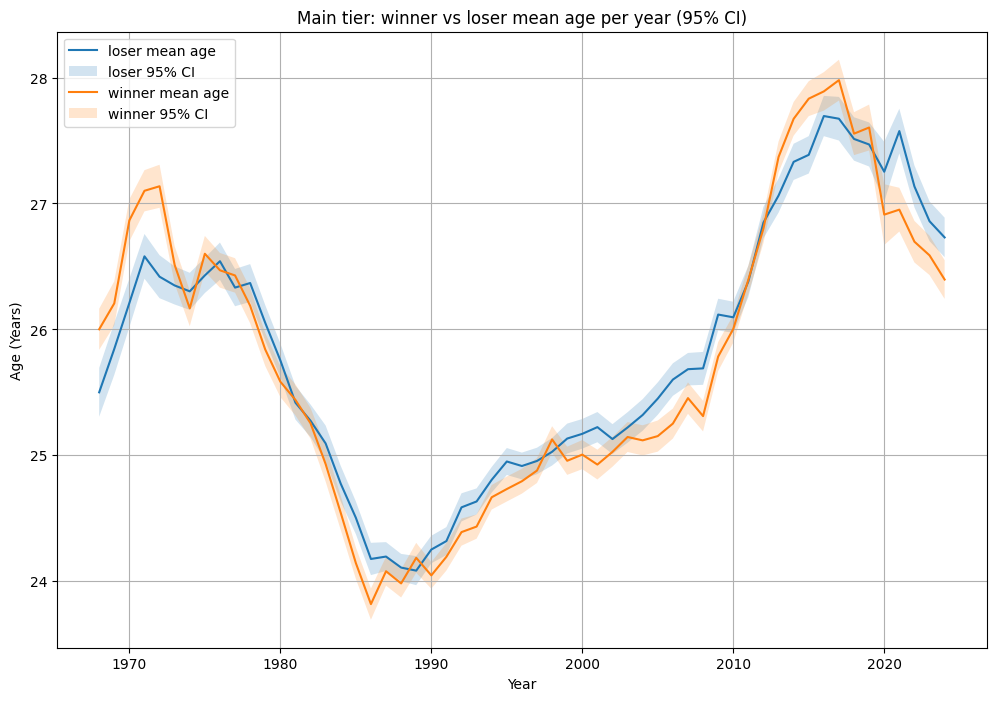
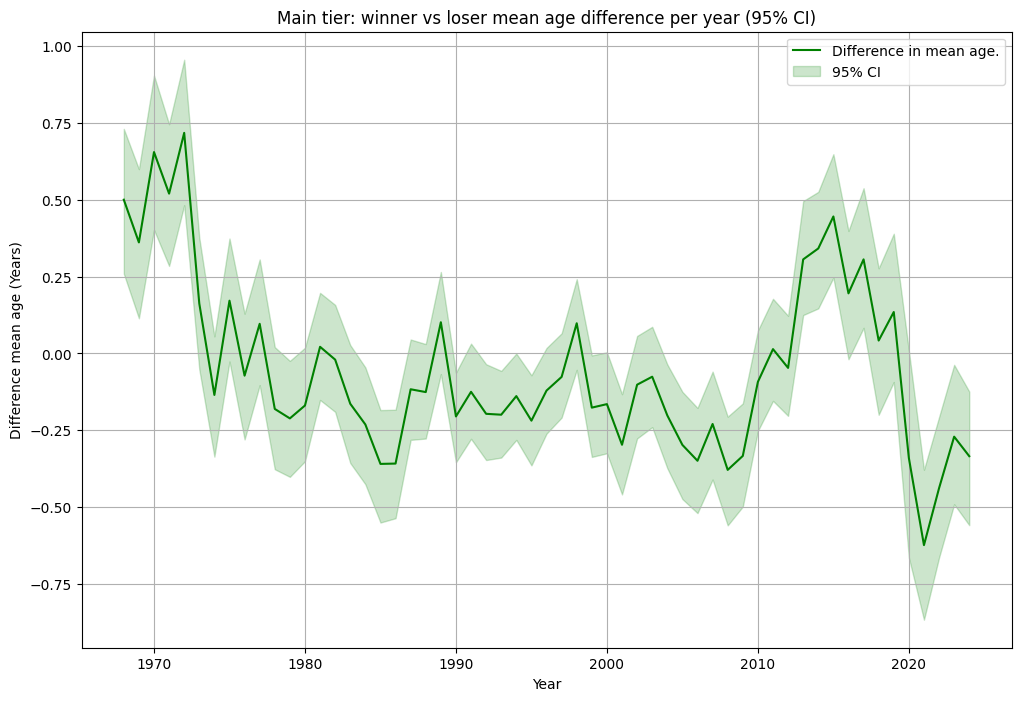
age_analyse_winner_loser.py Now uses bootstrapping as well.

diff --git a/code/age_analysis/age_analyse_winner_loser.py b/code/age_analysis/age_analyse_winner_loser.py
@@ -1,6 +1,5 @@
 import numpy as np
 import pandas as pd
-from scipy import stats
 from pathlib import Path
 import matplotlib.pyplot as plt
 
@@ -26,67 +25,75 @@ def main():
     # keep only main tier
     main = df[df["tier"] == "main"].copy()
 
-    # Compute mean and CI for winners. Duplicates are fine now, ages that win
-    # but then lose are canceled out that way.
-    groups = main.groupby(["year"])["winner_age"]
-    # Creates an out dataframe with number of ages(not unique) per group, their
-    # mean and std. reset_index Turns it into normal columns.
-    winners = groups.agg(n="count", mean="mean", std="std").reset_index()
+    # It shouldn't matter but it is nicer to have perfectly consistent plots.
+    rng = np.random.default_rng(0)
+    rows = []
+    # Amount of bootstrap samples. We have to use bootstrapping since ages
+    # of the same players across different matches are not independent of
+    # course.
+    N = 2000
+    # Since we use 95% CI.
+    alpha = 0.05
 
-    # The CI is computed using the Student's t-distribution:
-    # https://en.wikipedia.org/wiki/Confidence_interval
-    # Assumed to be fine due to central limit theorem.
-    winners["se"] = winners["std"] / np.sqrt(winners["n"])
-    # Two-sided 95% t-critical value with n-1 degrees of freedom
-    winners["tcrit"] = stats.t.ppf(0.975, df=winners["n"] - 1)
-    winners["ci_lower"] = winners["mean"] - winners["tcrit"] * winners["se"]
-    winners["ci_upper"] = winners["mean"] + winners["tcrit"] * winners["se"]
+    for year, group in main.groupby("year"):
+        winner_age = group["winner_age"].to_numpy()
+        loser_age = group["loser_age"].to_numpy()
+        # Amount of matches
+        n = len(group)
 
-    # Those columns were for computing, they are not useful for our conclusion.
-    winners = winners.drop(columns=["std", "se", "tcrit"]).sort_values(["year"])
+        # This is the actual difference in mean for the current year. The cast
+        # is so it is not some numpy datatype.
+        diff_mean = float(winner_age.mean() - loser_age.mean())
 
-    # Compute mean and CI for winners.
-    groups = main.groupby(["year"])["loser_age"]
-    losers = groups.agg(n="count", mean="mean", std="std").reset_index()
+        boots = np.empty(N)
+        idx = np.arange(n)
+        for b in range(N):
+            # Sample with replacement.
+            s = rng.choice(idx, size=n, replace=True)
+            # Compute the bootstrapped difference in mean.
+            boots[b] = winner_age[s].mean() - loser_age[s].mean()
 
-    losers["se"] = losers["std"] / np.sqrt(losers["n"])
-    # Two-sided 95% t-critical value with n-1 degrees of freedom
-    losers["tcrit"] = stats.t.ppf(0.975, df=losers["n"] - 1)
-    losers["ci_lower"] = losers["mean"] - losers["tcrit"] * losers["se"]
-    losers["ci_upper"] = losers["mean"] + losers["tcrit"] * losers["se"]
+        # The lower 2.5%
+        ci_lower = float(np.quantile(boots, alpha / 2))
+        # The upper 97.5%
+        ci_upper = float(np.quantile(boots, 1 - alpha / 2))
 
-    # Those columns were for computing, they are not useful for our conclusion.
-    losers = losers.drop(columns=["std", "se", "tcrit"]).sort_values(["year"])
+        rows.append(
+            {
+                "year": int(year),
+                "n": n,
+                "diff_mean": diff_mean,
+                "ci_lower": ci_lower,
+                "ci_upper": ci_upper,
+            }
+        )
 
-    winners["cat"] = "winner"
-    losers["cat"] = "loser"
+    out = pd.DataFrame(rows).sort_values("year").reset_index(drop=True)
 
-    out = pd.concat([winners, losers], ignore_index=True)
-
-    out.to_csv(f"{CSV_DIR}/winner_loser_age_mean.csv")
+    out.to_csv(f"{CSV_DIR}/winner_loser_age_mean.csv", index=False)
     fig, ax = plt.subplots(figsize=(12, 8))
 
-    for category, group in out.groupby("cat"):
-        group = group.sort_values("year")
-        x = group["year"]
-        y = group["mean"]
+    x = out["year"]
+    y = out["diff_mean"]
 
-        ax.plot(x, y, label=f"{category} mean age")
+    ax.plot(x, y, color="green", label=f"Difference in mean age.")
 
-        ax.fill_between(
-            x,
-            group["ci_lower"],
-            group["ci_upper"],
-            alpha=0.2,
-            label=f"{category} 95% CI",
-        )
+    ax.fill_between(
+        x,
+        out["ci_lower"],
+        out["ci_upper"],
+        color="green",
+        alpha=0.2,
+        label=f"95% CI",
+    )
 
     ax.legend()
     ax.grid(True)
-    ax.set_title(f"Main tier: winner vs loser mean age per year (95% CI)")
+    ax.set_title(f"Main tier: winner vs loser mean age difference per year (95% CI)")
     ax.set_xlabel("Year")
-    ax.set_ylabel("Age (Years)")
+    ax.set_ylabel("Difference mean age (Years)")
     fig.savefig(f"{PNG_DIR}/winner_loser_age_mean.png", bbox_inches="tight")
+
     return 0
 
 
